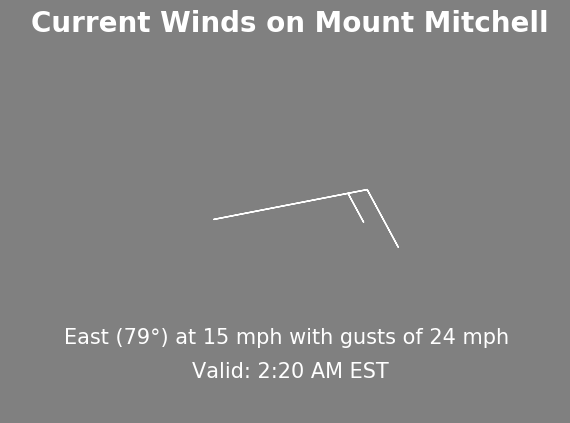
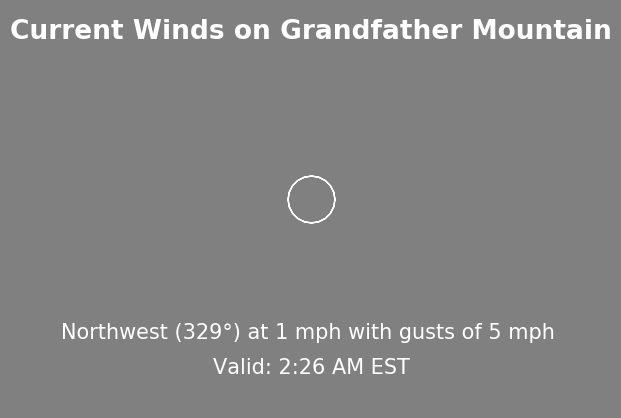
Final touches

diff --git a/temp_plot.py b/temp_plot.py
@@ -339,7 +339,7 @@ main()
 
 def windbarb():
 
-    url = 'https://climate.ncsu.edu/cronos/?station=MITC'
+    url = 'https://climate.ncsu.edu/cronos/?station=grandfathr'
     html = urllib.request.urlopen(url)
     soup = BeautifulSoup(html,features='html.parser')
 
@@ -382,7 +382,7 @@ def windbarb():
     else:
         offset = 90 - Dir_4
         deg_direction = Dir_4 + 90 + 2*offset
-    rad_direction = math.radians(deg_direction)#+(math.pi/2)
+    rad_direction = math.radians(deg_direction)
     speed = Speed_4
     u = speed*math.cos(rad_direction)
     v = speed*math.sin(rad_direction)
@@ -398,7 +398,7 @@ def windbarb():
     plt.ylim(-0.8,0.8)
     plt.text(0,-0.6,Wind_Sum,ha='center',size=15,color='white')
     plt.text(0,-0.75,"Valid: " + Time_7,ha='center',size=15,color='white')
-    plt.text(0,0.75,'Current Winds on Mount Mitchell',color='white',size=20,weight='bold',ha='center')
+    plt.text(0,0.70,'Current Winds on Grandfather Mountain',color='white',size=19,weight='bold',ha='center')
 
     plt.savefig("output/barbplot.png",bbox_inches='tight', facecolor=fig.get_facecolor())
     
